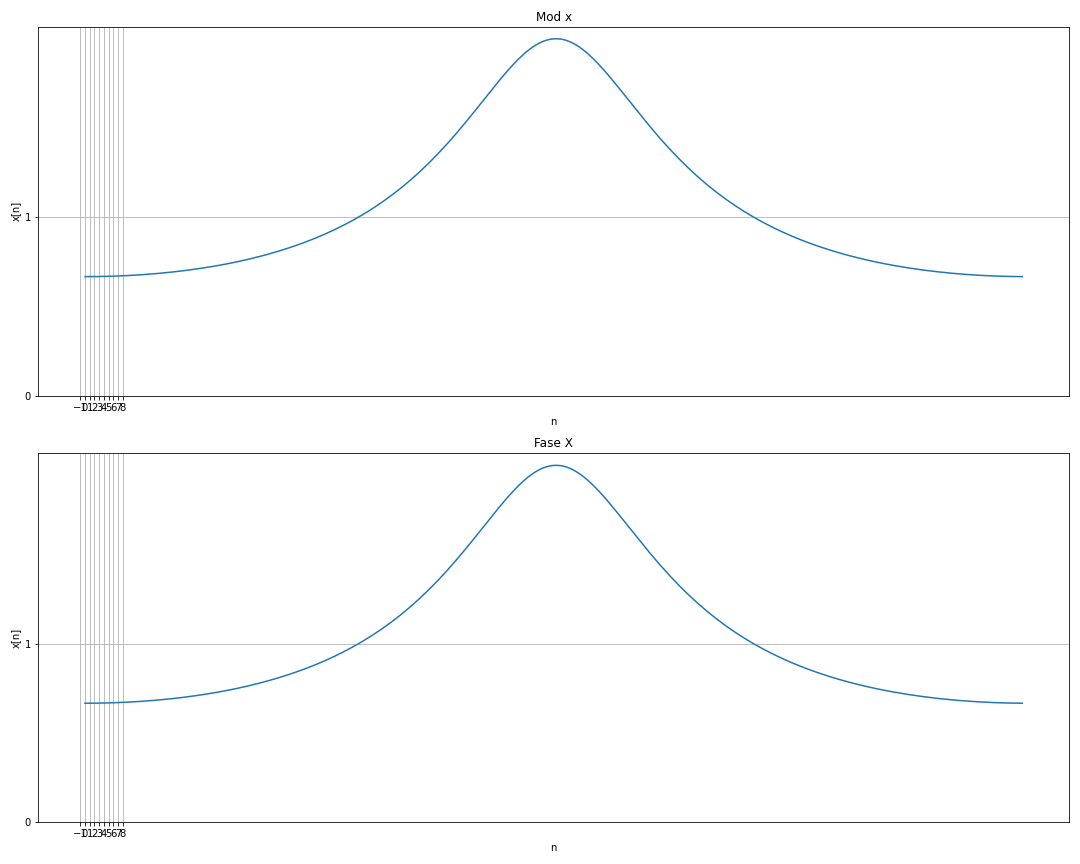
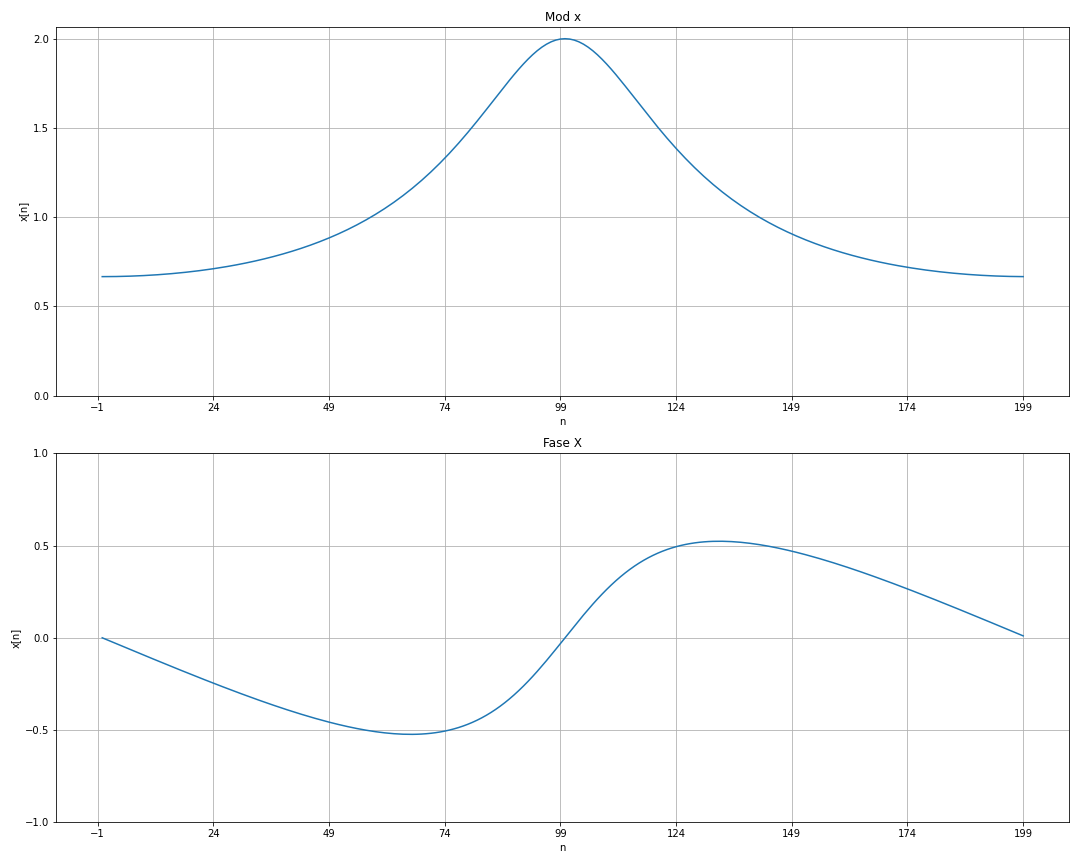
Código aula 5 corrigido, e imagem movida para aula 7

diff --git a/Aula 5/Tarefas/tfd.py b/Aula 5/Tarefas/tfd.py
@@ -31,8 +31,8 @@ plt.xlabel("n")
 plt.ylabel("x[n]")
 plt.grid(1)
 plt.plot(mod_x)
-plt.xticks(np.arange(-1, 8.1, 1))
-plt.yticks(np.arange(0, 1.1, 1))
+plt.xticks(np.arange(-1, 200.1, 25))
+plt.yticks(np.arange(0, 2.1, 0.5))
 
 
 plt.subplot(212)
@@ -40,16 +40,12 @@ plt.title("Fase X")
 plt.xlabel("n")
 plt.ylabel("x[n]")
 plt.grid(1)
-plt.plot(mod_x)
-plt.xticks(np.arange(-1, 8.1, 1))
-plt.yticks(np.arange(0, 1.1, 1))
-
+plt.plot(fase_x)
+plt.xticks(np.arange(-1, 200.1, 25))
+plt.yticks(np.arange(-1, 1.1, 0.5))
 
 
 plt.tight_layout()
-
-
-
 
 
 # Salvando os gráficos
